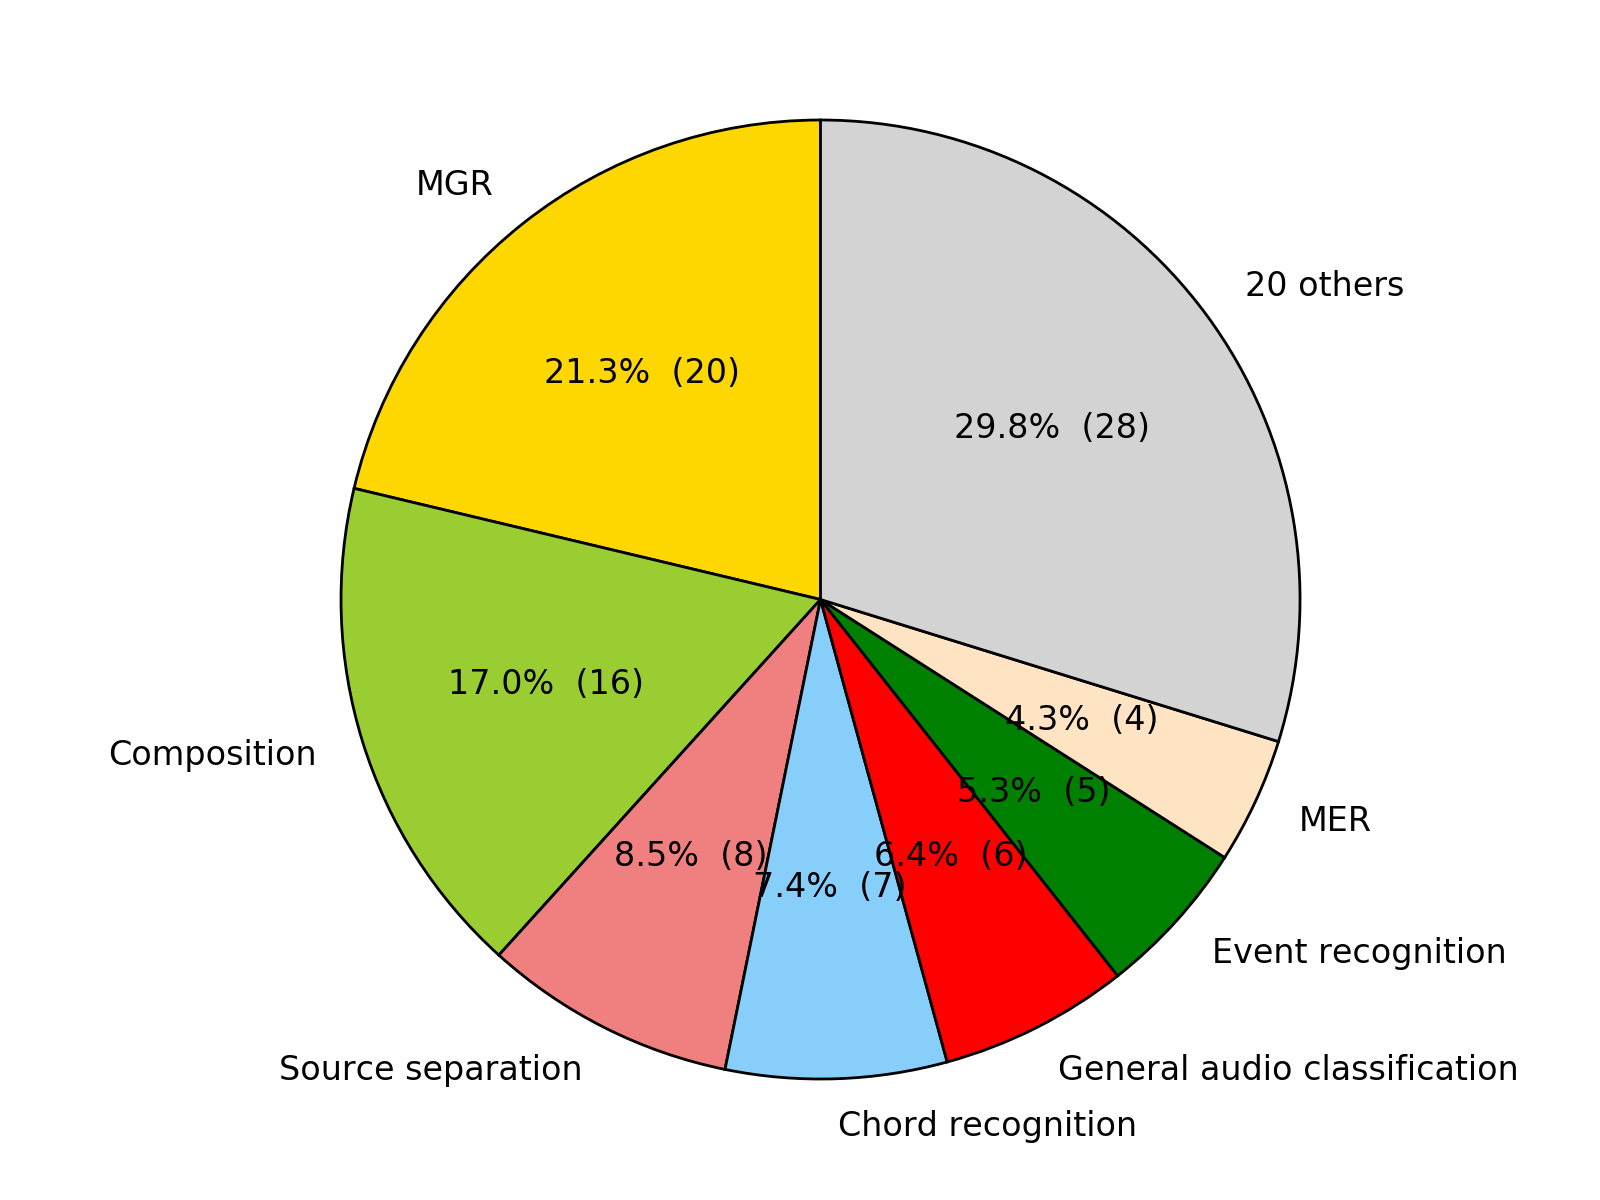
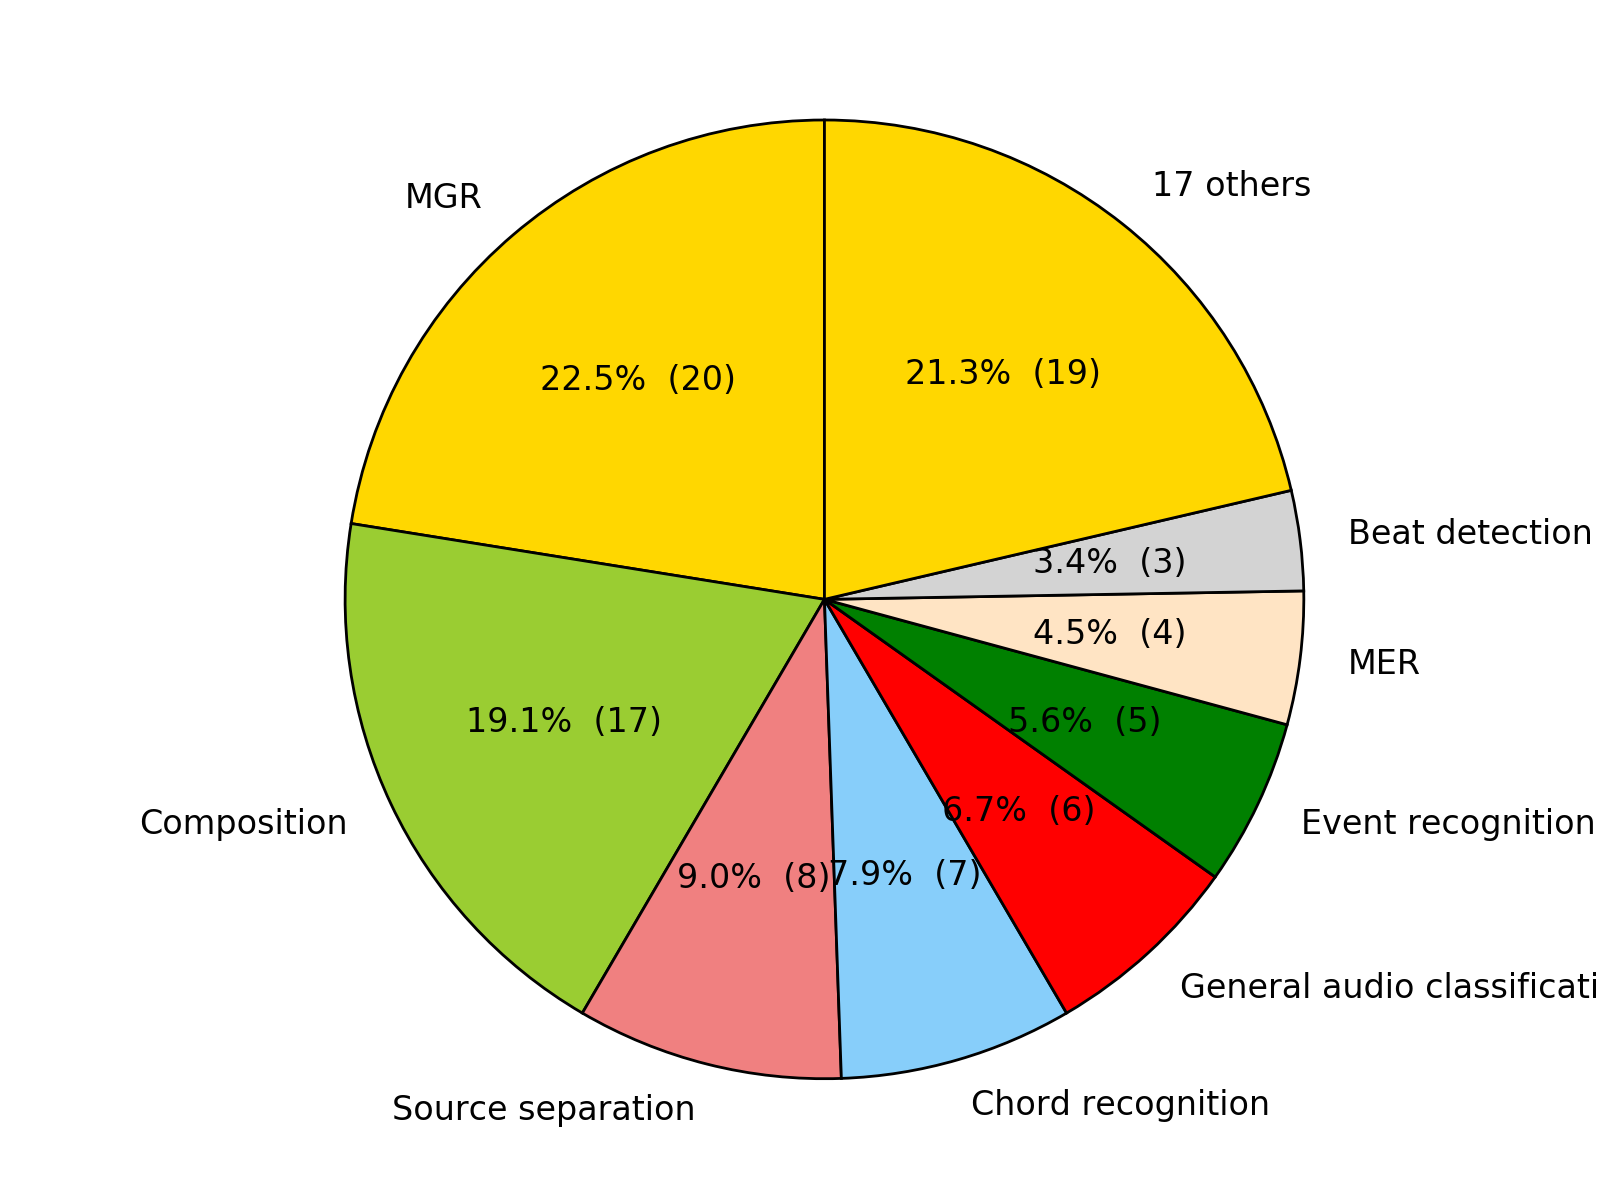
Add Brunner2017

diff --git a/dl4m.py b/dl4m.py
@@ -235,7 +235,7 @@ def make_autopct(values):
     return my_autopct
 
 
-def pie_chart(items, field_name, max_nb_slice=7):
+def pie_chart(items, field_name, max_nb_slice=8):
     """Description of pie_chart
     Display a pie_chart from the items given in input
     """

diff --git a/README.md b/README.md
@@ -31,6 +31,7 @@ However, these surveys do not cover music information retrieval tasks that are i
 | [Vision-based detection of acoustic timed events: A case study on clarinet note onsets](http://dorienherremans.com/dlm2017/papers/bazzica2017clarinet.pdf) | No |
 | Neural net modeling of music | No |
 | [Deep learning techniques for music generation - A survey](https://arxiv.org/pdf/1709.01620.pdf) | No |
+| [JamBot: Music theory aware chord based generation of polyphonic music with LSTMs](https://arxiv.org/pdf/1711.07682.pdf) | [GitHub](https://github.com/brunnergino/JamBot) |
 | [A supervised learning approach to musical style recognition](https://www.researchgate.net/profile/Giuseppe_Buzzanca/publication/228588086_A_supervised_learning_approach_to_musical_style_recognition/links/54b43ee90cf26833efd0109f.pdf) | No |
 | [XFlow: 1D <-> 2D cross-modal deep neural networks for audiovisual classification](https://arxiv.org/pdf/1709.00572.pdf) | No |
 | [Machine listening intelligence](http://dorienherremans.com/dlm2017/papers/cella2017mli.pdf) | No |
@@ -223,23 +224,24 @@ Each entry in [dl4m.bib](dl4m.bib) also displays additional information:
 
 ## Statistics and visualisations
 
-- 154 papers referenced. See the details in [dl4m.bib](dl4m.bib).
-- If you are applying DL to music, there are [319 other researchers](authors.md) in your field.
+- 155 papers referenced. See the details in [dl4m.bib](dl4m.bib).
+There are more papers from 2017 than any other years combined.
+Number of articles per year:
+![Number of articles per year](fig/articles_per_year.png)
+- If you are applying DL to music, there are [323 other researchers](authors.md) in your field.
 - 31 tasks investigated. See the list of [tasks](tasks.md).
 Tasks pie chart:
 ![Tasks pie chart](fig/pie_chart_task.png)
-- 42 datasets used. See the list of [datasets](datasets.md).
+- 43 datasets used. See the list of [datasets](datasets.md).
 Datasets pie chart:
 ![Datasets pie chart](fig/pie_chart_dataset.png)
 - 25 architectures used. See the list of [architectures](architectures.md).
 Architectures pie chart:
 ![Architectures pie chart](fig/pie_chart_architecture.png)
-- 7 frameworks used. See the list of [frameworks](frameworks.md).
+- 8 frameworks used. See the list of [frameworks](frameworks.md).
 Frameworks pie chart:
 ![Frameworks pie chart](fig/pie_chart_framework.png)
-- Number of articles per year:
-![Number of articles per year](fig/articles_per_year.png)
-- Only 38 articles (24%) provide their source code.
+- Only 39 articles (25%) provide their source code.
 Repeatability is the key to good science, so check out the [list of useful resources on reproducibility for MIR and ML](reproducibility.md).
 
 [Go back to top](https://github.com/ybayle/awesome-deep-learning-music#deep-learning-for-music-dl4m-)

diff --git a/datasets.md b/datasets.md
@@ -25,6 +25,7 @@ Please refer to the list of useful acronyms used in deep learning and music: [ac
 - [Jamendo](http://www.mathieuramona.com/wp/data/jamendo/)
 - [LMD](https://sites.google.com/site/carlossillajr/resources/the-latin-music-database-lmd)
 - [LabROSA](http://labrosa.ee.columbia.edu/projects/melody/)
+- [Lakh MIDI](https://labrosa.ee.columbia.edu/sounds/music/)
 - [Last.fm](https://www.last.fm/)
 - [LyricFind](http://lyricfind.com/)
 - [MAPS](http://www.tsi.telecom-paristech.fr/aao/en/2010/07/08/maps-database-a-piano-database-for-multipitch-estimation-and-automatic-transcription-of-music/)

diff --git a/authors.md b/authors.md
@@ -19,6 +19,7 @@
 - Brakel, Philémon
 - Bransen, Jeroen
 - Briot, Jean-Pierre
+- Brunner, Gino
 - Buzzanca, Giuseppe
 - Böck, Sebastian
 - Cai, Lianhong
@@ -290,13 +291,16 @@
 - Wang, Wenwu
 - Wang, Xinxi
 - Wang, Ye
+- Wang, Yuyi
 - Wang, Ziyuan
 - Watson, David
+- Wattenhofer, Roger
 - Weiss, Ron J.
 - Weninger, Felix
 - Wenwu Wang
 - Weyde, Tillman
 - Widmer, Gerhard
+- Wiesendanger, Jonas
 - Wilson, Kevin
 - Wu, Chung-Hsien
 - Wu, Raymond

diff --git a/publication_type.md b/publication_type.md
@@ -52,5 +52,6 @@
 - SMC
 - WASPAA
 - WIMP
+- [IEEE_ICTAI](http://ictai2017.org/)
 - [NIPS](https://nips.cc/)
 - [NIPS_ML4Audio](https://nips.cc/Conferences/2017/Schedule?showEvent=8790)

diff --git a/frameworks.md b/frameworks.md
@@ -4,6 +4,7 @@ Please refer to the list of useful acronyms used in deep learning and music: [ac
 
 - Caffe
 - Keras
+- Keras-TensorFlow
 - Keras-Theano
 - Not disclosed
 - PyTorch
